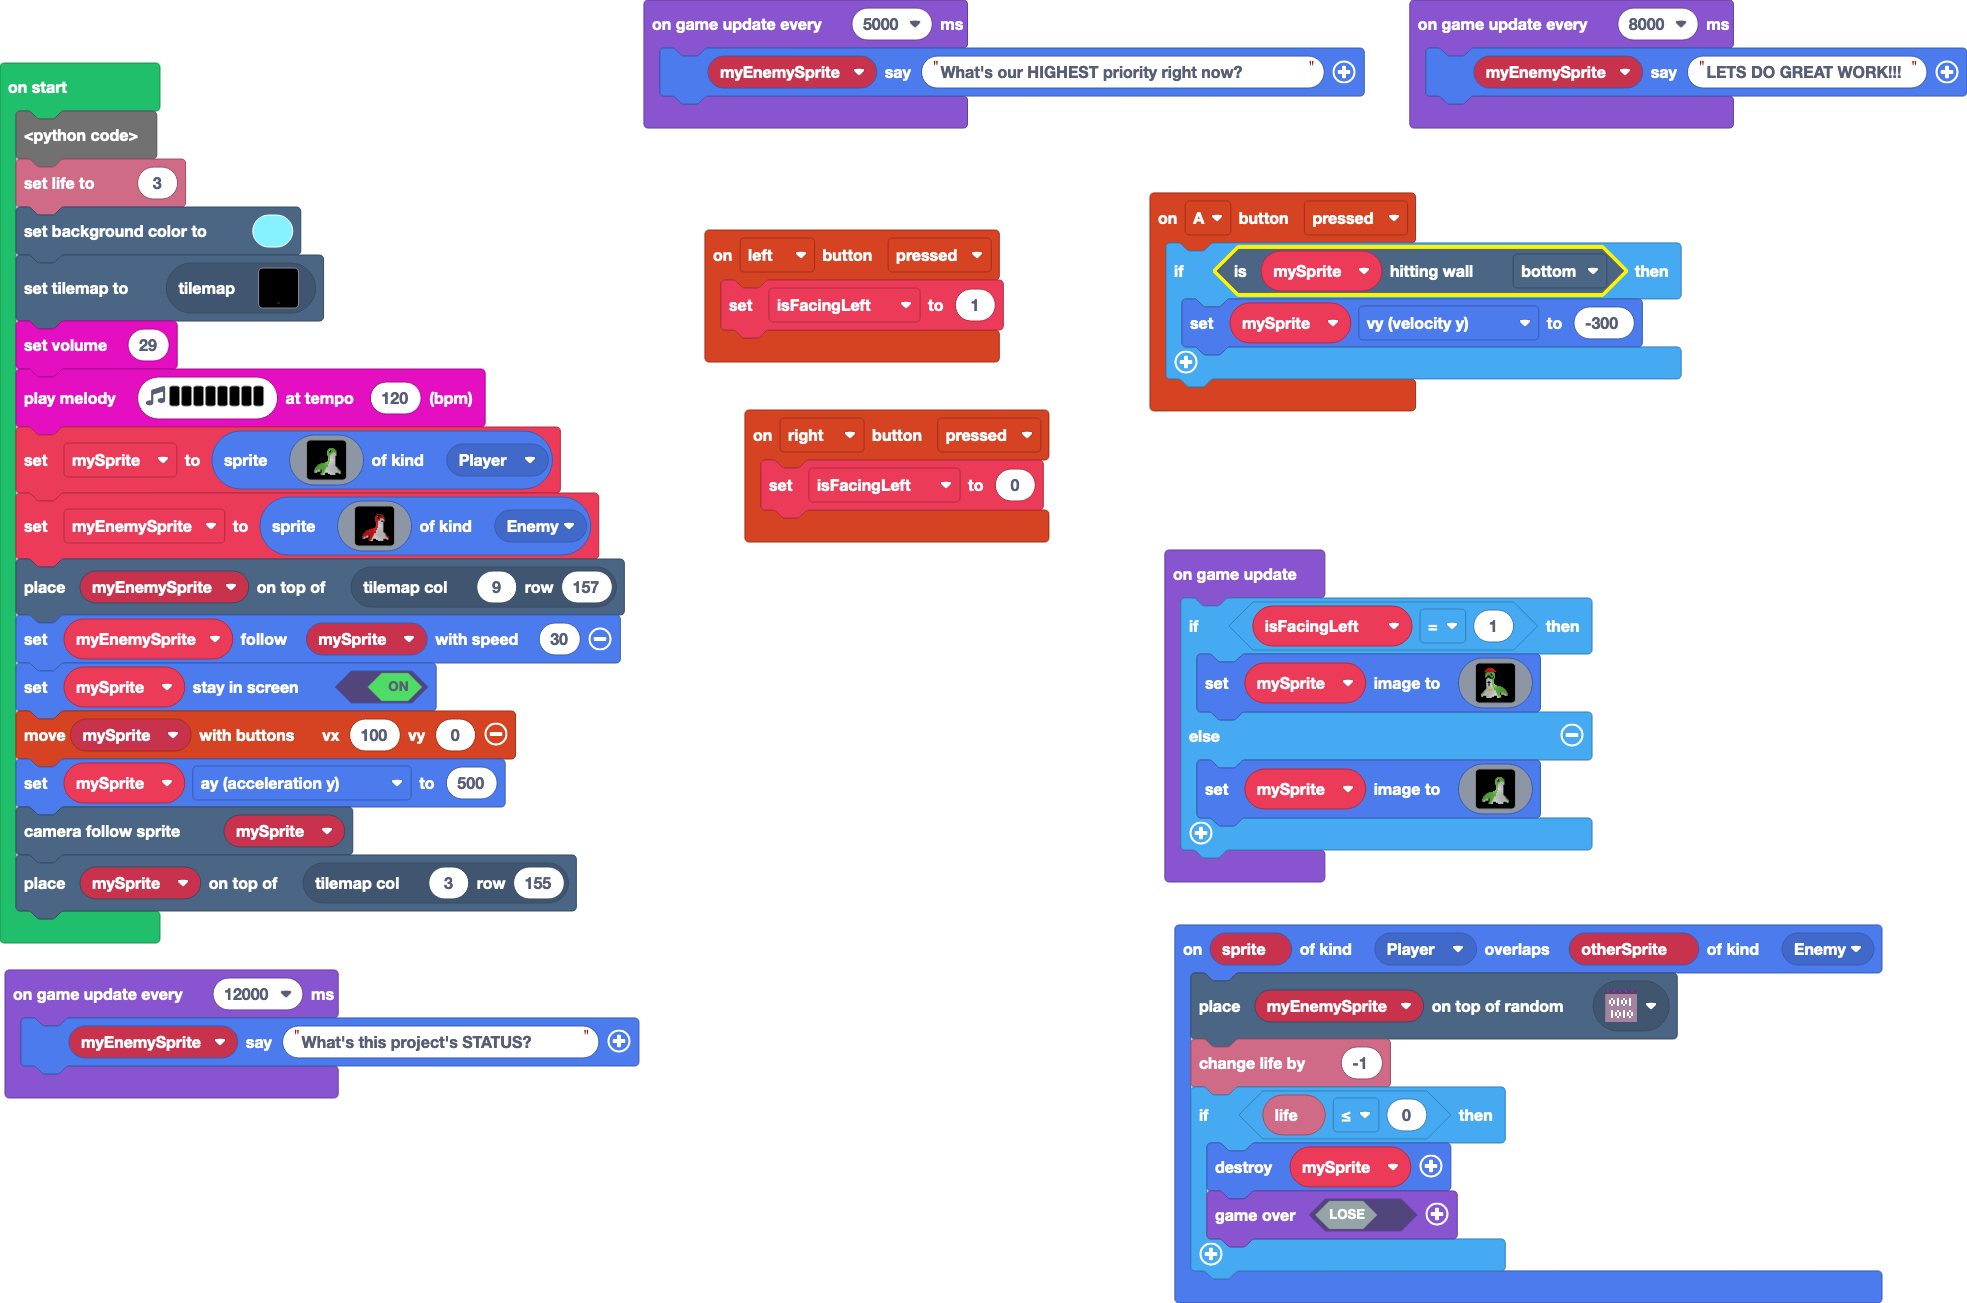
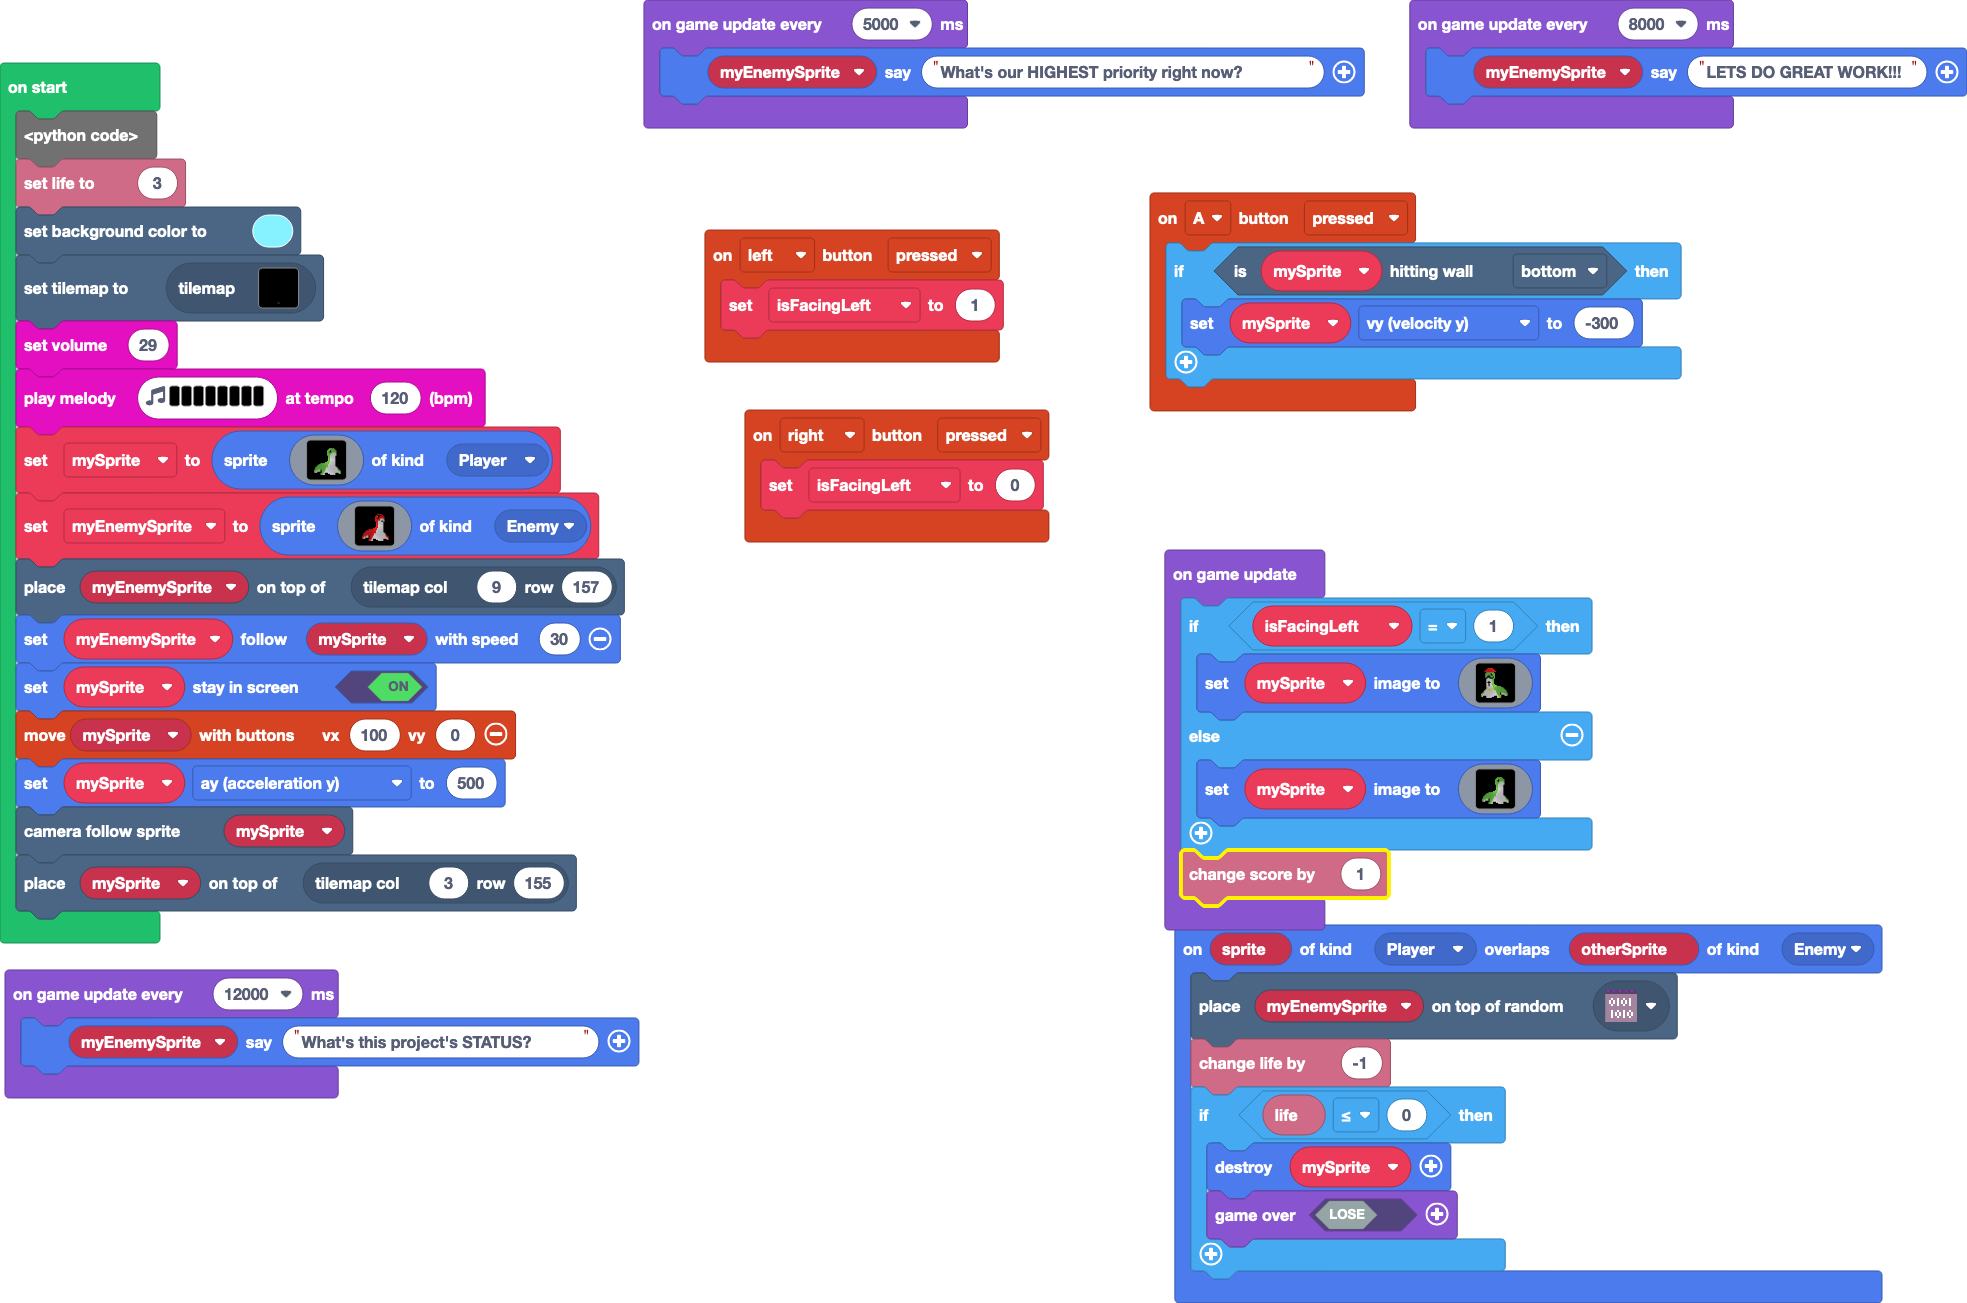
Update main.blocks, main.ts, tilemap.g.jres, tilemap.g.ts

Changed region(s): [[0.5892, 0.6447, 0.7133, 0.7368], [0.6202, 0.1842, 0.6512, 0.2456], [0.8063, 0.1842, 0.8373, 0.2149]]

diff --git a/tilemap.g.ts b/tilemap.g.ts
@@ -176,6 +176,25 @@ namespace myTiles {
 ................
 2222222222222222
 `, [myTiles.transparency16,myTiles.tile1,myTiles.tile3,myTiles.tile5], TileScale.Sixteen);
+            case "level2":
+            case "level2":return tiles.createTilemap(hex`1000100000000000000000000000000000000000000000000000000000000000000000000000000000000000000000000000000000000000000000000000000000000000000000000000000000000000000000000000000000000000000000000000000000000000000000000000000000000000000000000000000000000000000000000000000000000000000000000000000000000000000000000000000000000000000000000000000000000000000000000000000000000000000000000000000000000000000000000000000000000000000000000000000000000000000000000000000000000000000000000000000000000000000000000000000000000000`, img`
+. . . . . . . . . . . . . . . . 
+. . . . . . . . . . . . . . . . 
+. . . . . . . . . . . . . . . . 
+. . . . . . . . . . . . . . . . 
+. . . . . . . . . . . . . . . . 
+. . . . . . . . . . . . . . . . 
+. . . . . . . . . . . . . . . . 
+. . . . . . . . . . . . . . . . 
+. . . . . . . . . . . . . . . . 
+. . . . . . . . . . . . . . . . 
+. . . . . . . . . . . . . . . . 
+. . . . . . . . . . . . . . . . 
+. . . . . . . . . . . . . . . . 
+. . . . . . . . . . . . . . . . 
+. . . . . . . . . . . . . . . . 
+. . . . . . . . . . . . . . . . 
+`, [myTiles.transparency16], TileScale.Sixteen);
         }
         return null;
     })

diff --git a/main.ts b/main.ts
@@ -41,6 +41,7 @@ game.onUpdate(function () {
     } else {
         mySprite.setImage(assets.image`myImage`)
     }
+    info.changeScoreBy(1)
 })
 game.onUpdateInterval(5000, function () {
     myEnemySprite.sayText("What's our HIGHEST priority right now?")
